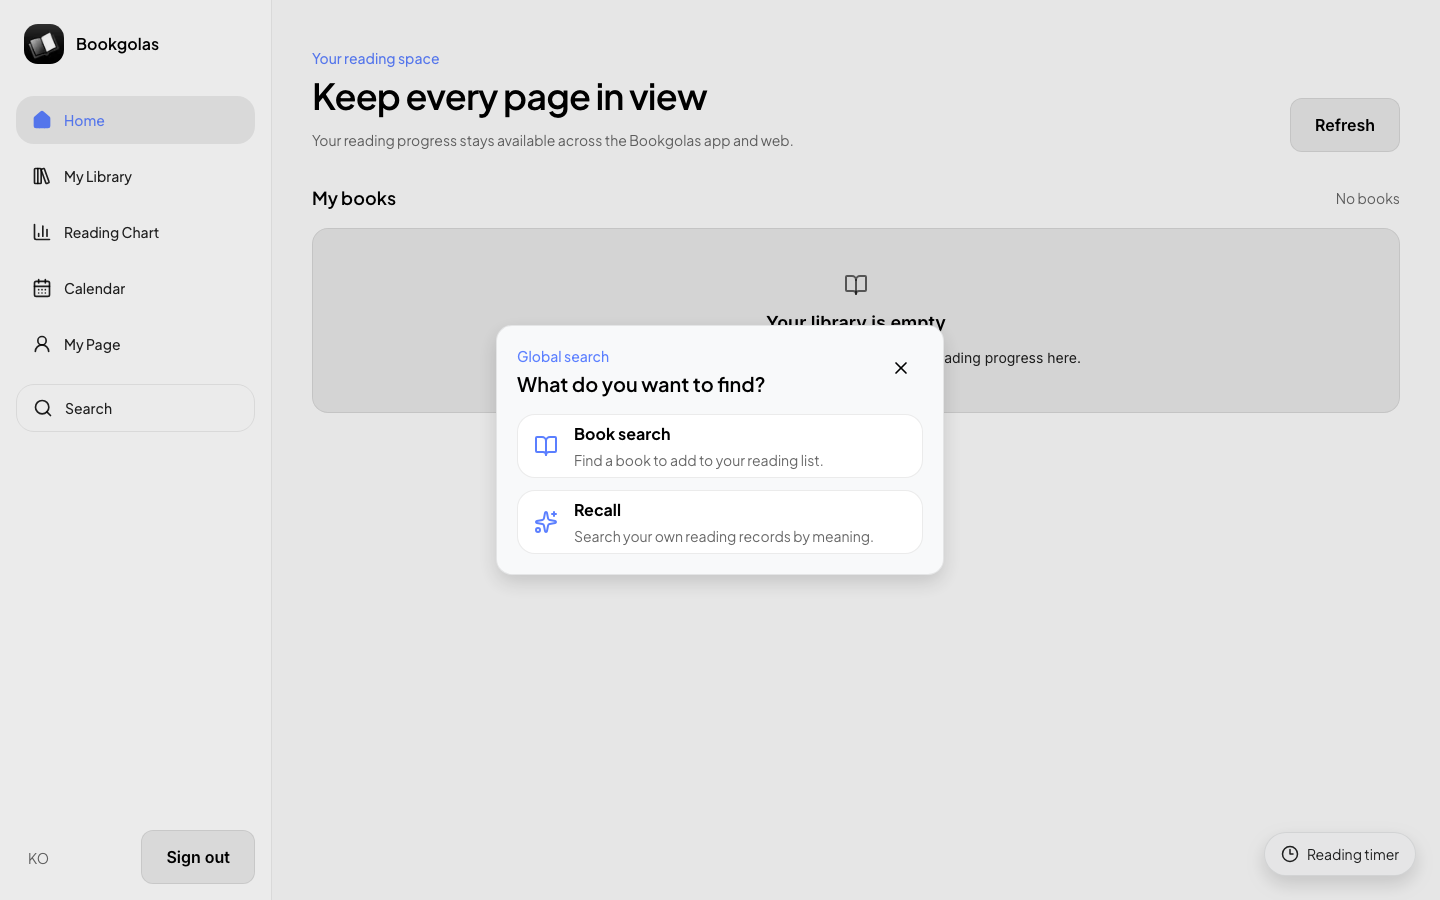
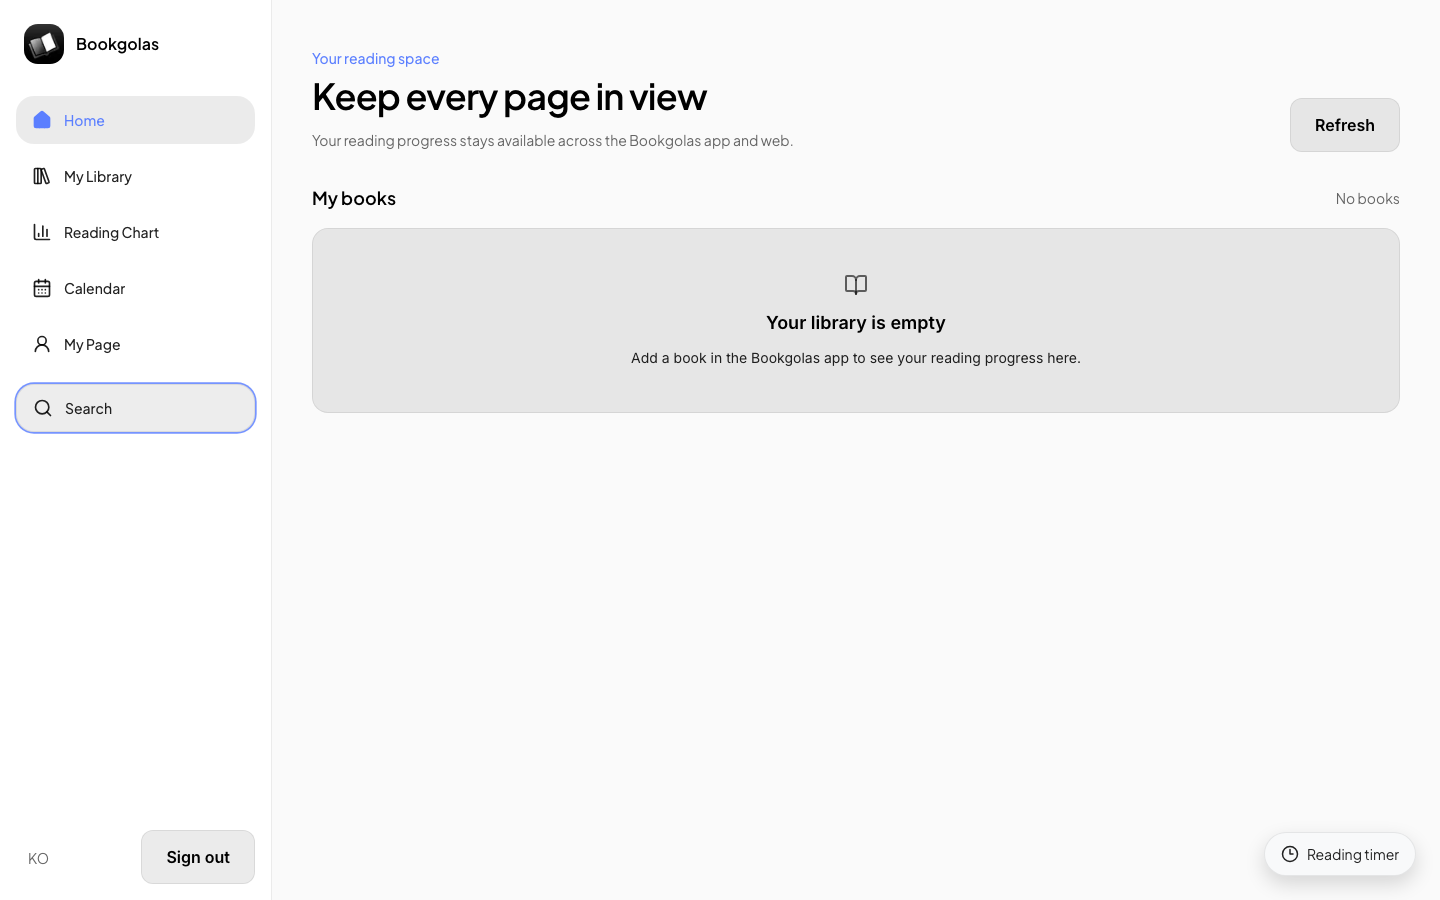
fix(shell): preserve locale state and dialog focus

Changed region(s): [[0.3125, 0.3733, 0.6875, 0.6844], [0.375, 0.4667, 0.5625, 0.5289]]

diff --git a/web/src/components/consumer/consumer-shell.tsx b/web/src/components/consumer/consumer-shell.tsx
@@ -3,7 +3,7 @@
 import Image from "next/image";
 import Link from "next/link";
 import { usePathname, useRouter, useSearchParams } from "next/navigation";
-import { useState } from "react";
+import { useRef, useState } from "react";
 import {
   BarChart3,
   BookOpen,
@@ -19,6 +19,14 @@ import {
 import { useTranslations } from "next-intl";
 import { ConsumerBottomBar } from "@/components/consumer/blab-primitives";
 import { SignOutButton } from "@/components/consumer/sign-out-button";
+import {
+  Dialog,
+  DialogClose,
+  DialogContent,
+  DialogDescription,
+  DialogHeader,
+  DialogTitle,
+} from "@/components/ui/dialog";
 import {
   consumerShellTabs,
   getActiveConsumerTab,
@@ -43,6 +51,7 @@ export function ConsumerShell({
   const router = useRouter();
   const searchParams = useSearchParams();
   const [searchOpen, setSearchOpen] = useState(false);
+  const searchReturnFocusRef = useRef<HTMLButtonElement | null>(null);
   const activeTab = getActiveConsumerTab(pathname);
 
   if (!activeTab) return children;
@@ -77,7 +86,20 @@ export function ConsumerShell({
       : `/${locale}/library?view=records&search=recall`);
   }
 
+  function toggleSearch() {
+    if (!searchOpen) {
+      searchReturnFocusRef.current = document.activeElement instanceof HTMLButtonElement
+        ? document.activeElement
+        : null;
+    }
+    setSearchOpen((open) => !open);
+  }
+
   const otherLocale = locale === "ko" ? "en" : "ko";
+  const currentQuery = searchParams.toString();
+  const localizedTabPath = currentQuery
+    ? `/${otherLocale}${consumerShellTabs[selectedIndex].path}?${currentQuery}`
+    : `/${otherLocale}${consumerShellTabs[selectedIndex].path}`;
 
   return (
     <div
@@ -113,12 +135,12 @@ export function ConsumerShell({
             );
           })}
         </nav>
-        <button type="button" onClick={() => setSearchOpen((open) => !open)} className="mt-[var(--blab-space-lg)] flex min-h-12 items-center gap-3 rounded-2xl border border-[var(--blab-glass-border)] px-4 text-sm font-medium text-[var(--blab-text-secondary)] transition hover:bg-[var(--blab-glass-fill)] focus-visible:outline-none focus-visible:ring-2 focus-visible:ring-[var(--blab-color-primary)]" aria-expanded={searchOpen} aria-controls="consumer-search-modes">
+        <button type="button" onClick={toggleSearch} className="mt-[var(--blab-space-lg)] flex min-h-12 items-center gap-3 rounded-2xl border border-[var(--blab-glass-border)] px-4 text-sm font-medium text-[var(--blab-text-secondary)] transition hover:bg-[var(--blab-glass-fill)] focus-visible:outline-none focus-visible:ring-2 focus-visible:ring-[var(--blab-color-primary)]" aria-expanded={searchOpen} aria-controls="consumer-search-modes">
           <Search aria-hidden="true" size={20} />
           {t("search.open")}
         </button>
         <div className="mt-auto flex items-end justify-between gap-3 pt-[var(--blab-space-lg)]">
-          <Link href={`/${otherLocale}${consumerShellTabs[selectedIndex].path}`} className="min-h-11 rounded-xl px-3 py-2 text-sm text-[var(--blab-text-tertiary)] focus-visible:outline-none focus-visible:ring-2 focus-visible:ring-[var(--blab-color-primary)]">
+          <Link href={localizedTabPath} className="min-h-11 rounded-xl px-3 py-2 text-sm text-[var(--blab-text-tertiary)] focus-visible:outline-none focus-visible:ring-2 focus-visible:ring-[var(--blab-color-primary)]">
             {otherLocale.toUpperCase()}
           </Link>
           <SignOutButton locale={locale} />
@@ -131,7 +153,7 @@ export function ConsumerShell({
             <Image src="/logo-bookgolas.png" alt="" width={36} height={36} className="rounded-xl" />
             <span className="font-semibold">{t("brand")}</span>
           </Link>
-          <Link href={`/${otherLocale}${consumerShellTabs[selectedIndex].path}`} className="min-h-11 rounded-xl px-3 py-2 text-sm text-[var(--blab-text-tertiary)] focus-visible:outline-none focus-visible:ring-2 focus-visible:ring-[var(--blab-color-primary)]">
+          <Link href={localizedTabPath} className="min-h-11 rounded-xl px-3 py-2 text-sm text-[var(--blab-text-tertiary)] focus-visible:outline-none focus-visible:ring-2 focus-visible:ring-[var(--blab-color-primary)]">
             {otherLocale.toUpperCase()}
           </Link>
         </header>
@@ -148,7 +170,7 @@ export function ConsumerShell({
           tabs={bottomTabs}
           selectedIndex={selectedIndex}
           onTabSelected={(index) => navigateToTab(consumerShellTabs[index].id)}
-          onSearchTap={() => setSearchOpen((open) => !open)}
+          onSearchTap={toggleSearch}
           actionIcon={<Search aria-hidden="true" size={20} />}
           actionLabel={t("search.open")}
           ariaLabel={t("navigationLabel")}
@@ -156,31 +178,39 @@ export function ConsumerShell({
         />
       </div>
 
-      {searchOpen ? (
-        <div className="fixed inset-0 z-50 flex items-end bg-[var(--blab-glass-fill)] p-[var(--blab-space-lg)] sm:items-center sm:justify-center" onClick={() => setSearchOpen(false)}>
-          <section id="consumer-search-modes" role="dialog" aria-modal="true" aria-labelledby="consumer-search-title" className="w-full rounded-[var(--blab-radius-card)] border border-[var(--blab-glass-border)] bg-[var(--blab-surface-elevated)] p-[var(--blab-space-xl)] shadow-[var(--blab-elevation-surface)] sm:max-w-md" onClick={(event) => event.stopPropagation()}>
-            <div className="flex items-start justify-between gap-4">
-              <div>
-                <p className="text-sm font-medium text-[var(--blab-color-primary)]">{t("search.eyebrow")}</p>
-                <h2 id="consumer-search-title" className="mt-1 text-xl font-semibold">{t("search.title")}</h2>
-              </div>
-              <button type="button" onClick={() => setSearchOpen(false)} aria-label={t("search.close")} className="grid min-h-11 min-w-11 place-items-center rounded-full hover:bg-[var(--blab-glass-fill)] focus-visible:outline-none focus-visible:ring-2 focus-visible:ring-[var(--blab-color-primary)]">
-                <X aria-hidden="true" size={20} />
-              </button>
-            </div>
-            <div className="mt-[var(--blab-space-lg)] grid gap-[var(--blab-space-md)]">
-              <button type="button" onClick={() => selectSearchMode("book")} className="flex min-h-16 items-center gap-4 rounded-2xl border border-[var(--blab-glass-border)] bg-[var(--blab-surface)] px-4 text-left transition hover:bg-[var(--blab-glass-fill)] focus-visible:outline-none focus-visible:ring-2 focus-visible:ring-[var(--blab-color-primary)]">
-                <BookOpen aria-hidden="true" className="text-[var(--blab-color-primary)]" />
-                <span><strong className="block">{t("search.bookTitle")}</strong><span className="mt-1 block text-sm text-[var(--blab-text-tertiary)]">{t("search.bookDescription")}</span></span>
-              </button>
-              <button type="button" onClick={() => selectSearchMode("recall")} className="flex min-h-16 items-center gap-4 rounded-2xl border border-[var(--blab-glass-border)] bg-[var(--blab-surface)] px-4 text-left transition hover:bg-[var(--blab-glass-fill)] focus-visible:outline-none focus-visible:ring-2 focus-visible:ring-[var(--blab-color-primary)]">
-                <Sparkles aria-hidden="true" className="text-[var(--blab-color-primary)]" />
-                <span><strong className="block">{t("search.recallTitle")}</strong><span className="mt-1 block text-sm text-[var(--blab-text-tertiary)]">{t("search.recallDescription")}</span></span>
-              </button>
-            </div>
-          </section>
-        </div>
-      ) : null}
+      <Dialog open={searchOpen} onOpenChange={setSearchOpen}>
+        <DialogContent
+          id="consumer-search-modes"
+          showCloseButton={false}
+          onCloseAutoFocus={(event) => {
+            event.preventDefault();
+            searchReturnFocusRef.current?.focus();
+            searchReturnFocusRef.current = null;
+          }}
+          className="w-full rounded-[var(--blab-radius-card)] border-[var(--blab-glass-border)] bg-[var(--blab-surface-elevated)] p-[var(--blab-space-xl)] text-[var(--blab-text-primary)] shadow-[var(--blab-elevation-surface)] sm:max-w-md"
+        >
+          <DialogHeader className="text-left">
+            <p className="text-sm font-medium text-[var(--blab-color-primary)]">{t("search.eyebrow")}</p>
+            <DialogTitle id="consumer-search-title" className="mt-1 text-xl font-semibold">{t("search.title")}</DialogTitle>
+            <DialogDescription className="sr-only">{t("search.description")}</DialogDescription>
+          </DialogHeader>
+          <DialogClose asChild>
+            <button type="button" aria-label={t("search.close")} className="absolute right-4 top-4 grid min-h-11 min-w-11 place-items-center rounded-full hover:bg-[var(--blab-glass-fill)] focus-visible:outline-none focus-visible:ring-2 focus-visible:ring-[var(--blab-color-primary)]">
+              <X aria-hidden="true" size={20} />
+            </button>
+          </DialogClose>
+          <div className="grid gap-[var(--blab-space-md)]">
+            <button type="button" onClick={() => selectSearchMode("book")} className="flex min-h-16 items-center gap-4 rounded-2xl border border-[var(--blab-glass-border)] bg-[var(--blab-surface)] px-4 text-left transition hover:bg-[var(--blab-glass-fill)] focus-visible:outline-none focus-visible:ring-2 focus-visible:ring-[var(--blab-color-primary)]">
+              <BookOpen aria-hidden="true" className="text-[var(--blab-color-primary)]" />
+              <span><strong className="block">{t("search.bookTitle")}</strong><span className="mt-1 block text-sm text-[var(--blab-text-tertiary)]">{t("search.bookDescription")}</span></span>
+            </button>
+            <button type="button" onClick={() => selectSearchMode("recall")} className="flex min-h-16 items-center gap-4 rounded-2xl border border-[var(--blab-glass-border)] bg-[var(--blab-surface)] px-4 text-left transition hover:bg-[var(--blab-glass-fill)] focus-visible:outline-none focus-visible:ring-2 focus-visible:ring-[var(--blab-color-primary)]">
+              <Sparkles aria-hidden="true" className="text-[var(--blab-color-primary)]" />
+              <span><strong className="block">{t("search.recallTitle")}</strong><span className="mt-1 block text-sm text-[var(--blab-text-tertiary)]">{t("search.recallDescription")}</span></span>
+            </button>
+          </div>
+        </DialogContent>
+      </Dialog>
     </div>
   );
 }

diff --git a/web/tests/e2e/consumer-shell.spec.ts b/web/tests/e2e/consumer-shell.spec.ts
@@ -40,6 +40,17 @@ test("desktop shell exposes exactly five tabs, deep-link state, search modes and
   await navigation.getByRole("button", { name: "Search" }).click();
   await expect(page.getByRole("button", { name: /^Book search/ })).toBeVisible();
   await expect(page.getByRole("button", { name: /^Recall/ })).toBeVisible();
+  await expect(page.getByRole("dialog")).toBeVisible();
+  await page.keyboard.press("Escape");
+  await expect(page.getByRole("dialog")).toHaveCount(0);
+  await expect(navigation.getByRole("button", { name: "Search" })).toBeFocused();
+  await navigation.getByRole("button", { name: "Search" }).click();
+  const dialog = page.getByRole("dialog");
+  await dialog.getByRole("button", { name: "Close search modes" }).focus();
+  await page.keyboard.press("Shift+Tab");
+  await expect(dialog.getByRole("button", { name: /^Recall/ })).toBeFocused();
+  await page.keyboard.press("Tab");
+  await expect(dialog.getByRole("button", { name: "Close search modes" })).toBeFocused();
   await capture(page, "task-14-bookgolas-web-app-parity.png");
 
   await page.getByRole("button", { name: /^Book search/ }).click();
@@ -52,6 +63,10 @@ test("desktop shell exposes exactly five tabs, deep-link state, search modes and
   await page.reload({ waitUntil: "networkidle" });
   await expect(page).toHaveURL(/\/en\/library\?view=records&search=recall$/);
   await expect(page.getByTestId("consumer-shell")).toHaveAttribute("data-active-tab", "library");
+
+  await page.goto("/en/home?view=planned&filter=mine", { waitUntil: "networkidle" });
+  await navigation.getByRole("link", { name: "KO" }).click();
+  await expect(page).toHaveURL(/\/ko\/home\?view=planned&filter=mine$/);
 });
 
 test("mobile shell keeps five tabs and cycles home and chart re-taps in the URL", async ({ context, page }) => {

diff --git a/.omo/evidence/bookgolas-web-app-parity/task-14-diff-review.md b/.omo/evidence/bookgolas-web-app-parity/task-14-diff-review.md
@@ -4,8 +4,9 @@
 - Native alignment: the shell follows the Flutter `MainScreen` five-page order, native Home and Reading Chart cycles, bottom-bar compact labels, global search modes, and timer placement. Admin, marketing, legal, onboarding, and pushed detail routes stay outside the shell.
 - Route safety: existing localized auth gating remains in the consumer layout. The added loopback-only fixtures cover expired sessions, unauthorized private data, pending, and unavailable states without changing production behavior when test mode is disabled.
 - State recovery: invalid Home or Reading Chart query values fall back to native defaults; valid values survive refresh and deep links. Re-tapping other tabs retains their normal route behavior.
-- Accessibility and localization: desktop links expose `aria-current`, the mobile bar retains button semantics, the search chooser is a named modal dialog, focus rings remain visible, and Korean/English labels cover all shell actions and states.
+- Accessibility and localization: desktop links expose `aria-current`, the mobile bar retains button semantics, the Radix dialog provides focus trap/Escape handling, close focus returns to the trigger, focus rings remain visible, and Korean/English labels cover all shell actions and states.
 - Regression review: the issue-specific contract, Vitest suite, Chromium desktop/mobile suite, expired-session suite, TypeScript, ESLint, full Vitest/parity/BLDS/UI contract suite, and production build were run. The full regression is recorded after the feature commit because the parity negative harness intentionally binds evidence to a clean Git revision.
+- CodeRabbit review: CodeRabbit CLI 0.7.6 raised one major accessibility issue and one minor locale-state issue. Both were valid and fixed by using the existing Radix dialog primitive with explicit focus restoration and by preserving the current query string in locale-switch links. The follow-up browser suite covers focus cycling, Escape close, focus restoration, and query preservation.
 - Boundary review: no native-only capability was added, no subscription or admin navigation was coupled, and the protected `/private/tmp/bookgolas-web-blds-453` worktree was left untouched.
 
 Verdict: APPROVE
